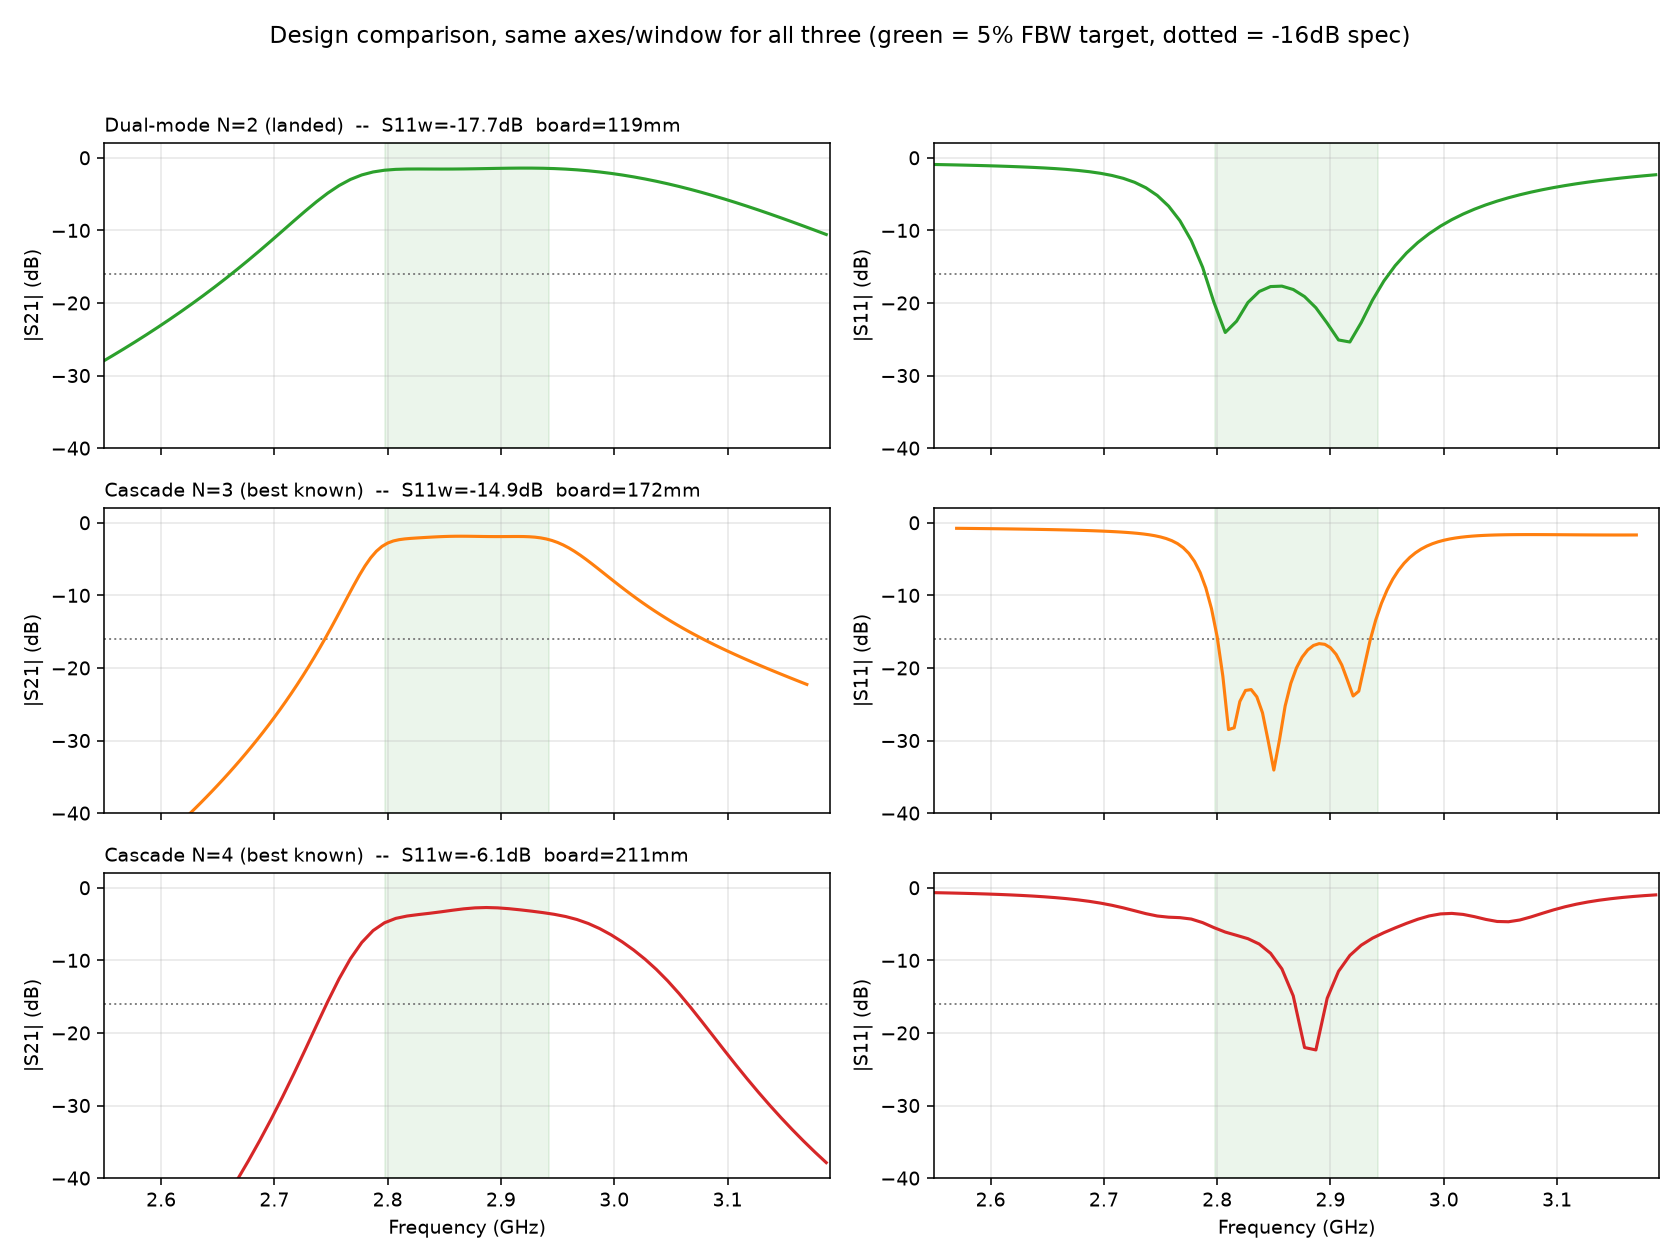
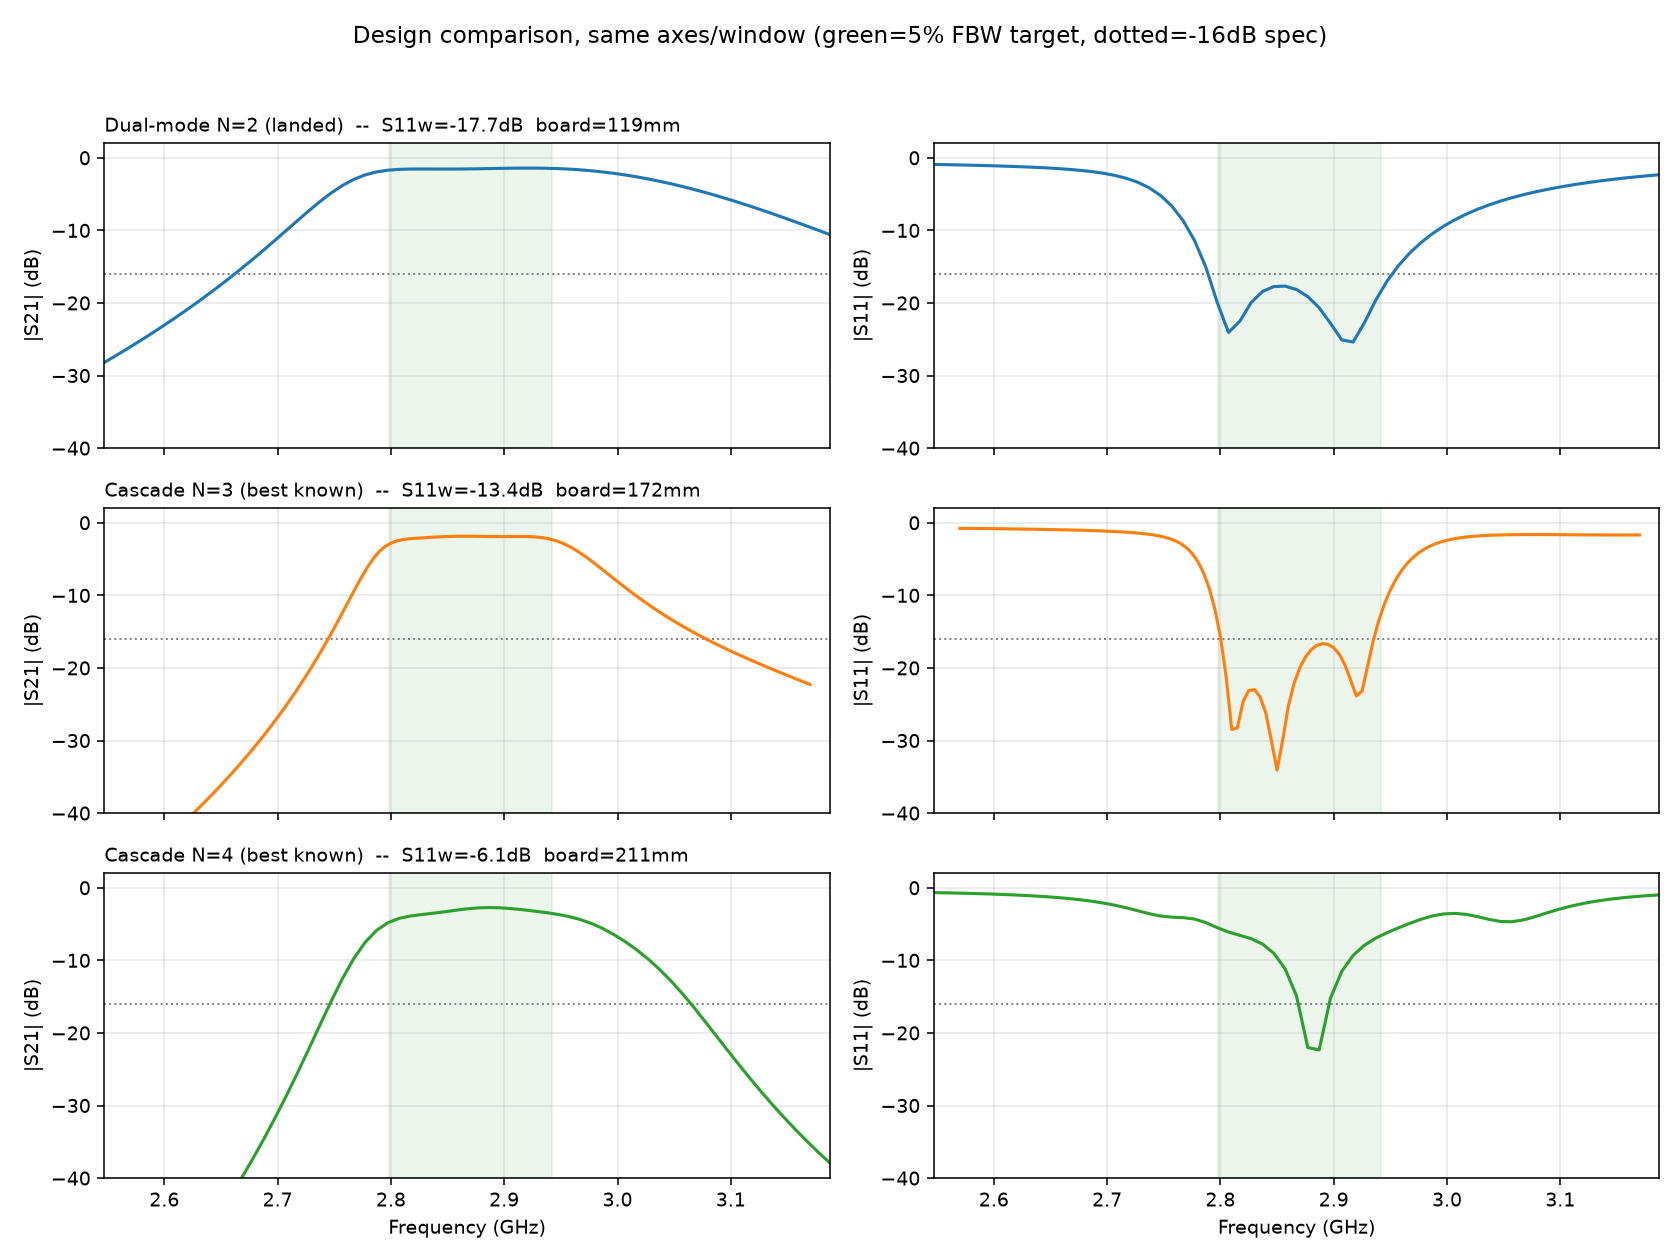
feat: add `siw compare-designs` CLI subcommand
Promotes the ad-hoc fabrication-decision comparison script (consistent-axes
S11/S21 + true-to-scale board footprints across a list of golden/ design
entries) into report.build_design_comparison() + a real subcommand, per
CLAUDE.md's standing rule to prefer CLI commands over one-off driver
scripts. Reads existing golden data only -- no re-solving.

  siw compare-designs --golden <path>... [--labels ...] [--f0/--fbw/--spec-db]

Also fixes a labeling bug from the ad-hoc version: it's not reliably
inferable from the golden schema whether a design is "landed" vs "best
known" (the landed dualmode N=2 entry still carries its own
known_open_item, the bandwidth gap) -- now takes explicit --labels instead
of guessing.

diff --git a/src/siwfilter/report.py b/src/siwfilter/report.py
@@ -24,10 +24,13 @@ import shutil
 import subprocess
 import sys
 
+import json
+
 import numpy as np
 import matplotlib
 matplotlib.use("Agg")
 import matplotlib.pyplot as plt
+from matplotlib.patches import Rectangle
 import skrf as rf
 
 from .config import OUTPUT_DIR, data_path, out_s2p, out_img
@@ -156,6 +159,109 @@ def build_cst_v2_compare() -> bool:
     out = os.path.join(REPORT_DIR, "compare_cst_v2.png")
     fig.tight_layout(); fig.savefig(out, dpi=140)
     print(f"  compare_cst_v2.png -> {REPORT_DIR}")
+    return True
+
+
+def build_design_comparison(golden_paths: list[str], f0_ghz: float = 2.87,
+                            fbw: float = 0.05, spec_db: float = -16.0,
+                            out_name: str = "design_comparison",
+                            labels: list[str] | None = None) -> bool:
+    """Fabrication-decision comparison across an arbitrary list of golden
+    design entries (golden/<topology_N>/<stem>.json, each needing its
+    companion <stem>.s11s21.json for the raw sweep).
+
+    Two figures: (1) S11/S21 for every design on IDENTICAL x/y axes -- the
+    earlier ad-hoc version of this plot mixed a leftover narrow sweep window
+    for one design against a proper wide one for the others, which made the
+    designs look qualitatively different rather than letting the real
+    performance gap show; (2) board footprints drawn to true relative scale,
+    since each topology's own layout plot auto-scales its own figure and so
+    never shows which design is actually bigger.
+    """
+    from .config import FilterSpec
+    from .topologies import REGISTRY
+
+    entries = []
+    for i, p in enumerate(golden_paths):
+        stem = p[:-len(".json")] if p.endswith(".json") else p
+        s11s21_path = stem + ".s11s21.json"
+        if not (os.path.exists(p) and os.path.exists(s11s21_path)):
+            print(f"  (skip {p} -- missing golden json or companion .s11s21.json)")
+            continue
+        d = json.load(open(p))
+        sd = json.load(open(s11s21_path))
+        m = d.get("metrics", {})
+        # Whether a design is "landed" vs "best known" isn't reliably
+        # inferable from the golden schema (the landed dualmode N=2 entry
+        # still carries its own known_open_item, the bandwidth gap) -- let
+        # the caller supply labels; default to a bare topology/N tag.
+        title = labels[i] if labels and i < len(labels) else f"{d.get('topology', '?')} N={d.get('N', '?')}"
+        board_mm = m.get("board_length_mm")
+        if board_mm is None:
+            try:
+                topo_obj = REGISTRY[d["topology"]]
+                spec = FilterSpec(N=d["N"])
+                board_mm = topo_obj.board_length_mm(spec, **d["params"])
+            except Exception:
+                board_mm = float("nan")
+        entries.append(dict(title=title, f=sd["f_ghz"], s11=sd["s11_db"], s21=sd["s21_db"],
+                            s11w=m.get("s11w_db", float("nan")), board_mm=board_mm))
+    if not entries:
+        print("  (skip design comparison -- no valid golden entries)")
+        return False
+
+    colors = plt.cm.tab10.colors
+    xlim = (min(min(e["f"]) for e in entries), max(max(e["f"]) for e in entries))
+
+    fig, axes = plt.subplots(len(entries), 2, figsize=(12, 3 * len(entries)), sharex=True,
+                             squeeze=False)
+    for row, e in enumerate(entries):
+        color = colors[row % len(colors)]
+        ax21, ax11 = axes[row]
+        for ax in (ax21, ax11):
+            ax.axvspan(f0_ghz * (1 - fbw / 2), f0_ghz * (1 + fbw / 2), color="green", alpha=0.08)
+            ax.axhline(spec_db, color="gray", ls=":", lw=1)
+            ax.set_xlim(*xlim); ax.set_ylim(-40, 2); ax.grid(alpha=0.3)
+        ax21.plot(e["f"], e["s21"], color=color, lw=1.6)
+        ax21.set_ylabel("|S21| (dB)")
+        ax21.set_title(f"{e['title']}  --  S11w={e['s11w']:.1f}dB  board={e['board_mm']:.0f}mm",
+                       loc="left", fontsize=10)
+        ax11.plot(e["f"], e["s11"], color=color, lw=1.6)
+        ax11.set_ylabel("|S11| (dB)")
+    axes[-1][0].set_xlabel("Frequency (GHz)")
+    axes[-1][1].set_xlabel("Frequency (GHz)")
+    fig.suptitle(f"Design comparison, same axes/window "
+                f"(green={fbw * 100:.0f}% FBW target, dotted={spec_db:.0f}dB spec)")
+    fig.tight_layout(rect=(0, 0, 1, 0.96))
+    out1 = out_img(f"{out_name}_sparams.png")
+    fig.savefig(out1, dpi=140)
+    plt.close(fig)
+    shutil.copy2(out1, os.path.join(REPORT_DIR, f"{out_name}_sparams.png"))
+    print(f"  {out_name}_sparams.png -> {REPORT_DIR}")
+
+    fig2, ax2 = plt.subplots(figsize=(12, 1.2 + 1.6 * len(entries)))
+    y0, gap, h = 0.0, 18.0, 12.0
+    maxlen = max(e["board_mm"] for e in entries)
+    for row, e in enumerate(entries):
+        color = colors[row % len(colors)]
+        ax2.add_patch(Rectangle((0, y0), e["board_mm"], h, fill=True, fc=color, alpha=0.25,
+                                ec=color, lw=1.5))
+        ax2.text(e["board_mm"] + 0.02 * maxlen, y0 + h / 2,
+                 f"{e['title']}\n{e['board_mm']:.0f}mm, S11w={e['s11w']:.1f}dB",
+                 va="center", fontsize=9)
+        y0 += gap
+    ax2.set_xlim(0, maxlen * 1.5)
+    ax2.set_ylim(-6, y0)
+    ax2.set_yticks([])
+    ax2.set_xlabel("Board length (mm)")
+    ax2.set_title("Board footprint, true relative scale")
+    ax2.grid(axis="x", alpha=0.3)
+    fig2.tight_layout()
+    out2 = out_img(f"{out_name}_board_scale.png")
+    fig2.savefig(out2, dpi=140)
+    plt.close(fig2)
+    shutil.copy2(out2, os.path.join(REPORT_DIR, f"{out_name}_board_scale.png"))
+    print(f"  {out_name}_board_scale.png -> {REPORT_DIR}")
     return True
 
 

diff --git a/src/siwfilter/cli.py b/src/siwfilter/cli.py
@@ -28,6 +28,10 @@ Plus AI-driven design subcommands (see HANDOFF.md), all Palace/Topology-based:
     design --topology ...       : full Bayesian search for a new design
     layout --topology ...       : fast layout-only sanity check (no solve)
     sweep  --topology ...       : wideband sweep of an existing design
+    compare-designs --golden .. : fabrication-decision comparison across an
+                                   arbitrary list of golden/ design entries --
+                                   S11/S21 on identical axes + true-to-scale
+                                   board footprints (report.build_design_comparison)
 
 Examples:
     siw                              # light pipeline (synth..report)
@@ -433,6 +437,14 @@ def cmd_sweep(args) -> int:
     return 0
 
 
+def cmd_compare_designs(args) -> int:
+    from .report import build_design_comparison
+    ok = build_design_comparison(args.golden, f0_ghz=args.f0, fbw=args.fbw,
+                                 spec_db=args.spec_db, out_name=args.out_name,
+                                 labels=args.labels)
+    return 0 if ok else 1
+
+
 def main(argv: list[str] | None = None) -> int:
     ap = argparse.ArgumentParser(
         prog="siw", description=__doc__.splitlines()[0],
@@ -566,6 +578,25 @@ def main(argv: list[str] | None = None) -> int:
                        help=_DEVICE_HELP)
     p_swp.add_argument("--np", type=int, default=4)
     p_swp.set_defaults(func=cmd_sweep)
+
+    p_cmpd = sub.add_parser("compare-designs",
+                            help="fabrication-decision comparison across a list of golden/ "
+                                 "design entries -- S11/S21 on identical axes + true-to-scale "
+                                 "board footprints (no re-solving, reads existing golden data)")
+    p_cmpd.add_argument("--golden", nargs="+", required=True,
+                        help="paths to golden/<topology_N>/<stem>.json entries "
+                             "(each needs a companion <stem>.s11s21.json)")
+    p_cmpd.add_argument("--f0", type=float, default=2.87, help="GHz, for the FBW shading")
+    p_cmpd.add_argument("--fbw", type=float, default=0.05, help="fractional BW, for the shading")
+    p_cmpd.add_argument("--spec-db", type=float, default=-16.0, help="S11 spec line")
+    p_cmpd.add_argument("--out-name", default="design_comparison",
+                        help="output basename -- writes <out-name>_sparams.png and "
+                             "<out-name>_board_scale.png to output/imgs/ and docs/")
+    p_cmpd.add_argument("--labels", nargs="+", default=None,
+                        help="one label per --golden entry, same order (default: "
+                             "'<topology> N=<N>', since landed-vs-best-known isn't "
+                             "reliably inferable from the golden schema)")
+    p_cmpd.set_defaults(func=cmd_compare_designs)
 
     # Internal only (see _artifacts/_render_worker): isolates one gmsh
     # render_png call per subprocess, not meant to be invoked directly.
